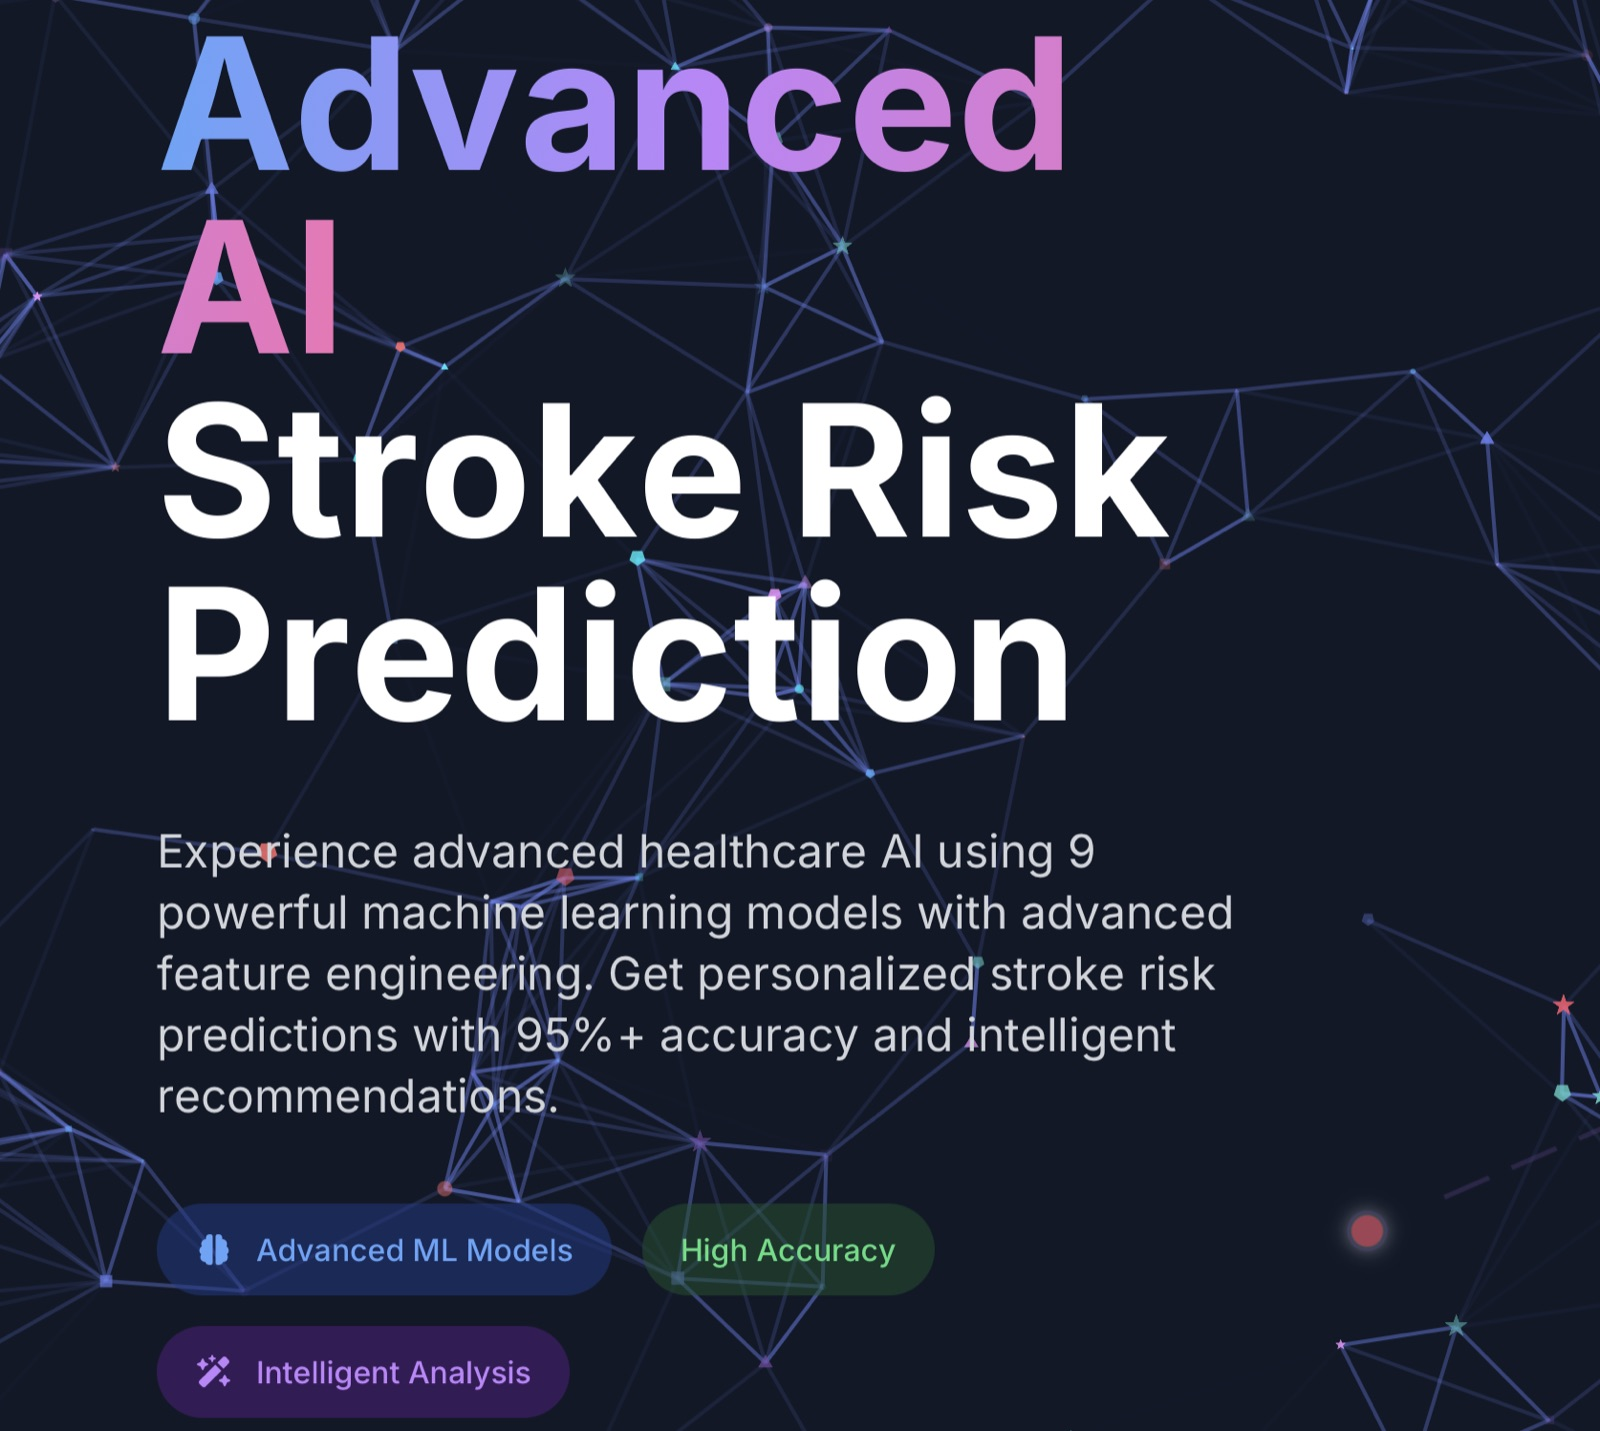
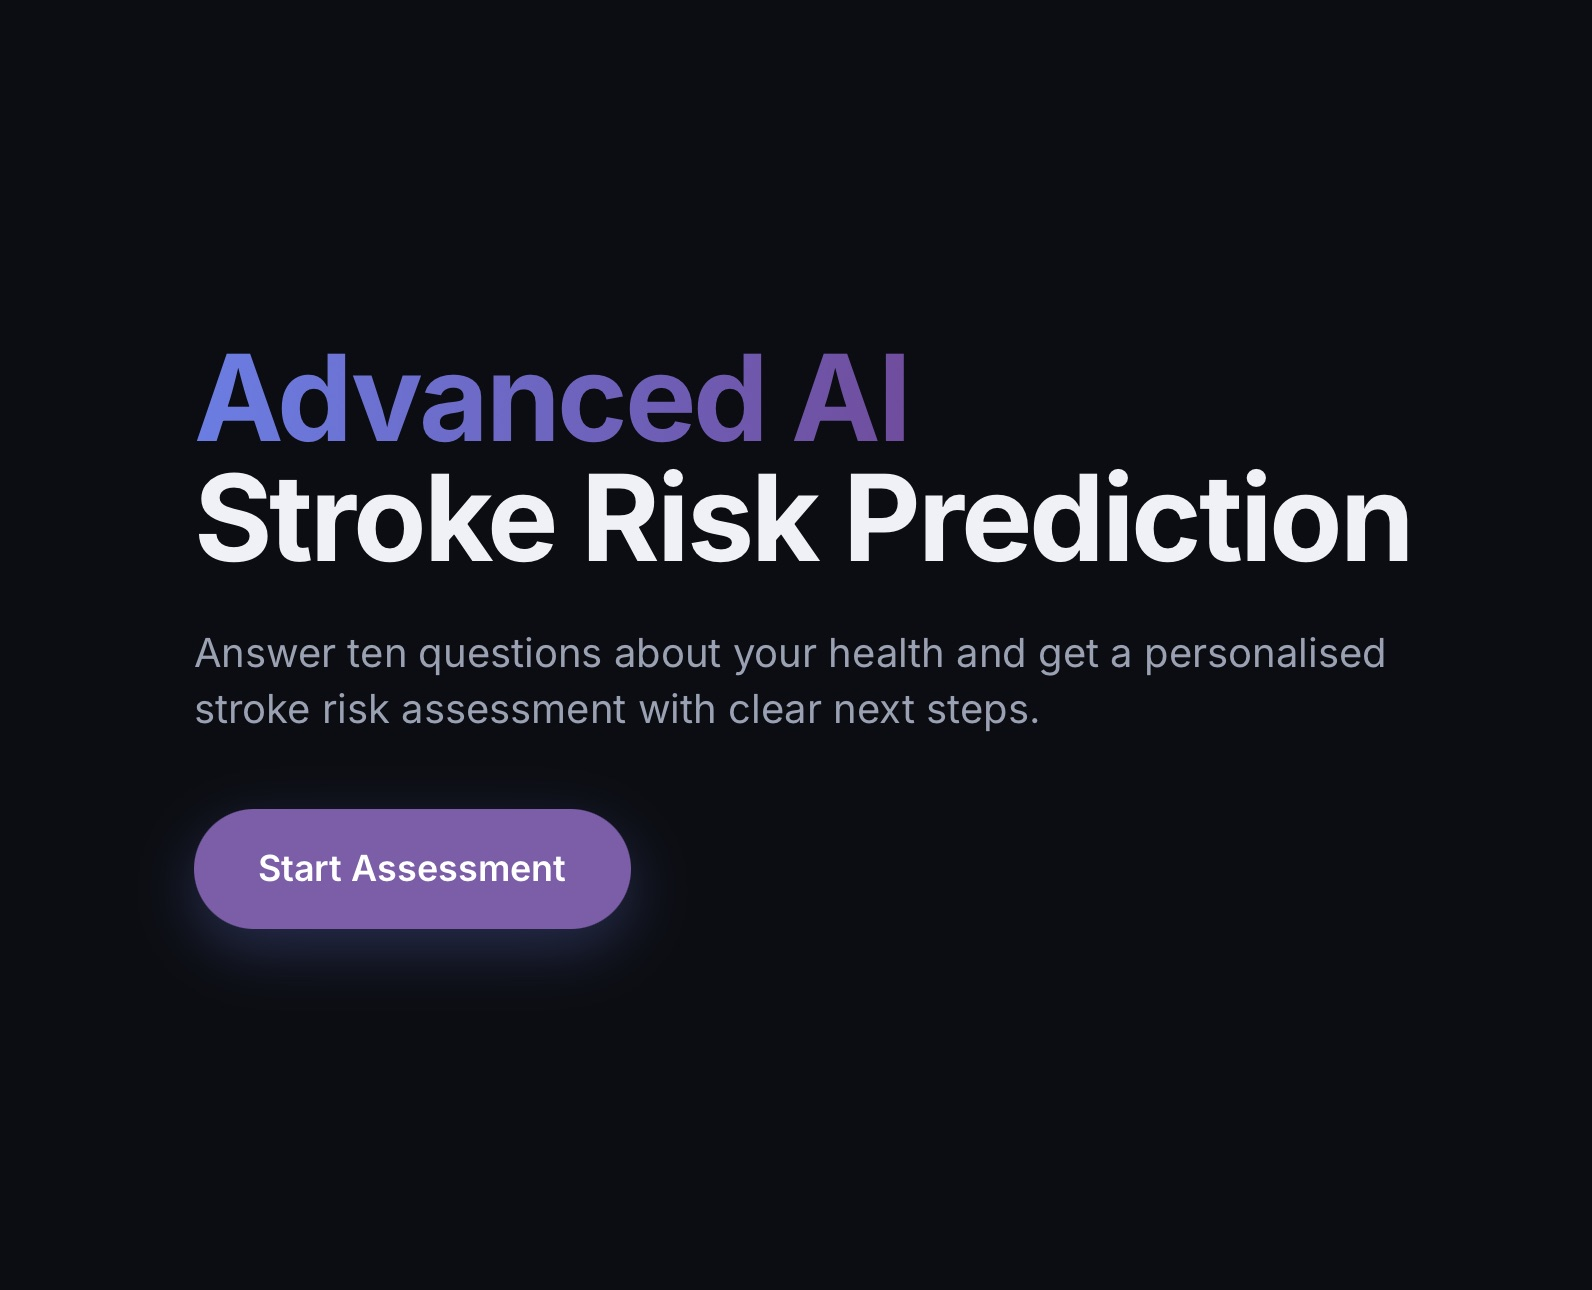
Describe the stroke model as it actually performs
The card claimed a 10-model ensemble at 95.11% accuracy with an F1 of
0.95. The project's own README documents that number as the broken
version: it scored 95.13% by answering "no stroke" for everyone on a
4.87% positive class, with recall 0.0000, and the ensemble claim was
never true either.

Replace it with the measured figures, held-out ROC-AUC 0.84 and 84%
recall, and lead with the rebuild rather than hide it. The same claim
had spread to the SEO description, the metrics strip, the about text,
the achievements list and the assistant's facts, so all of them move
together.

Also swaps in the current NeuroPredict hero as the card preview, and
centres the crop: the content sits mid-frame, so anchoring to the top
cut off the button.

Claude-Session: https://claude.ai/code/session_016gn7EhyWSDRDL2Fxgyaxqx

diff --git a/app/content.ts b/app/content.ts
@@ -55,11 +55,11 @@ export const profile = {
 export const seo = {
   title: "Soumyadip Sarkar - Software Engineer",
   description:
-    "Soumyadip Sarkar is a software engineer in Kolkata building full-stack software and AI systems, from an autonomous GPT-5.1 coding agent to a 10-model clinical ML ensemble.",
+    "Soumyadip Sarkar is a software engineer in Kolkata building full-stack software and AI systems, from an autonomous GPT-5.1 coding agent to a calibrated clinical risk model.",
   /* Used when the link is pasted into Slack, WhatsApp, LinkedIn, etc. */
   shareTitle: "Soumyadip Sarkar - Software Engineer",
   shareDescription:
-    "Full-stack and AI systems, built to hold up in production. Recent work: Nova, an autonomous GPT-5.1 coding agent, and a 10-model clinical ML ensemble.",
+    "Full-stack and AI systems, built to hold up in production. Recent work: Nova, an autonomous GPT-5.1 coding agent, and NeuroPredict, a calibrated clinical risk model.",
   /* Where this site is deployed. On Vercel the real domain is detected
      automatically; this is the fallback for other hosts. */
   siteUrl: "https://portfolio-soumyadip.vercel.app",
@@ -148,15 +148,15 @@ export const projects: Project[] = [
     fallbackTint: "sky",
   },
   {
-    name: "Stroke Risk Prediction System",
-    tag: "Clinical ML ensemble, team of 5",
+    name: "NeuroPredict",
+    tag: "Calibrated clinical risk model, team of 5",
     period: "2023 to 2025",
-    body: "Led the training and evaluation pipeline for a 10-model ensemble (XGBoost, LightGBM, Random Forest, SVM, MLP) with OOP-structured scikit-learn pipelines. Reached 95.11% accuracy and an F1 of 0.95 on held-out clinical data.",
-    facets: ["10-model ensemble", "95.11% accuracy", "F1 of 0.95", "Team of 5"],
+    body: "A React and Flask stroke risk screener built on one calibrated logistic regression over 21 features. The model it replaced scored 95% accuracy by answering 'no stroke' for everyone on a 4.87% positive class, catching none of them; balanced class weights and a decision threshold fitted out-of-fold at 0.0402 took it to a held-out ROC-AUC of 0.84 and 84% of strokes caught. Sigmoid calibration closed the gap between the displayed percentage and the real rate from 37 points to under one.",
+    facets: ["84% of strokes caught", "ROC-AUC 0.84", "Calibrated to 0.84 pts", "Team of 5"],
     demo: "https://final-2026-vert.vercel.app",
     repo: "https://github.com/Soumyadip2003-AI/stroke-prediction-system-ai-ml",
     image: "/stroke.jpg",
-    imageFocus: "top",
+    imageFocus: "center",
     fallbackTint: "aurora",
   },
   {
@@ -189,7 +189,7 @@ export const metricsSection = {
 export const metrics = [
   { value: "<1%", label: "Agent failure rate on Nova" },
   { value: "<180ms", label: "p95 latency, core flows" },
-  { value: "95.11%", label: "Clinical ensemble accuracy" },
+  { value: "84%", label: "Strokes caught, up from none" },
   { value: "<24h", label: "Production issue turnaround" },
 ];
 
@@ -225,7 +225,7 @@ export const about = {
   eyebrow: "About",
   headline: "I ship things, then I make them reliable.",
   intro:
-    "I am Soumyadip, a software engineer from Kolkata, currently doing my MCA at IEM. I build full-stack systems and AI agents: most recently Nova, an autonomous GPT-5.1 coding agent where I brought the failure rate from about 15% to under 1%, and a 10-model clinical ML ensemble that hit 95.11% accuracy. I am looking for SDE roles where I can own features end to end.",
+    "I am Soumyadip, a software engineer from Kolkata, currently doing my MCA at IEM. I build full-stack systems and AI agents: most recently Nova, an autonomous GPT-5.1 coding agent where I brought the failure rate from about 15% to under 1%, and NeuroPredict, a clinical risk model I took from catching no strokes at all to catching 84% of them. I am looking for SDE roles where I can own features end to end.",
 
   /* The four boxes a recruiter reads first. */
   quickFacts: [
@@ -272,7 +272,7 @@ export const certifications = [
 /* Told to the chatbot only. Not shown on the page. */
 export const achievements = [
   "Reduced AI-agent code-generation failure rate from about 15 percent to under 1 percent in a production system (Nova), architected end to end.",
-  "Achieved 95.11 percent accuracy with an F1 of 0.95 on a 10-model clinical ML ensemble while coordinating a 5-member engineering team.",
+  "Rebuilt a stroke risk model that was scoring 95 percent accuracy while catching none of the strokes, reaching a held-out ROC-AUC of 0.84 and 84 percent recall, while coordinating a 5-member engineering team.",
   "Maintained a 9.02 out of 10 CGPA in his BCA while shipping full-stack and AI/ML projects, and earned 3 AI/ML certifications from Google and Oracle.",
 ];
 
@@ -321,7 +321,7 @@ export const hiring = {
 
   /* Your pitch, in your own words. */
   strengths:
-    "He ships measurable results: he cut an AI agent's failure rate from about 15 percent to under 1 percent, and reached 95.11 percent accuracy on a clinical ML ensemble. He owns features end to end and backs his work with tests and CI.",
+    "He ships measurable results: he cut an AI agent's failure rate from about 15 percent to under 1 percent, and rebuilt a clinical risk model that caught no strokes into one that catches 84 percent of them. He owns features end to end and backs his work with tests and CI.",
 
   careerGoal:
     "To grow as a software engineer building production AI systems and reliable full-stack products.",
